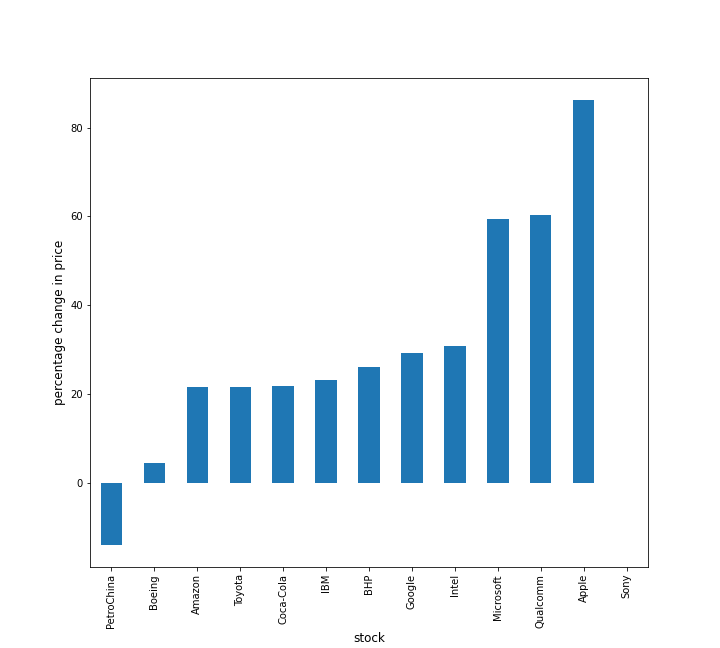
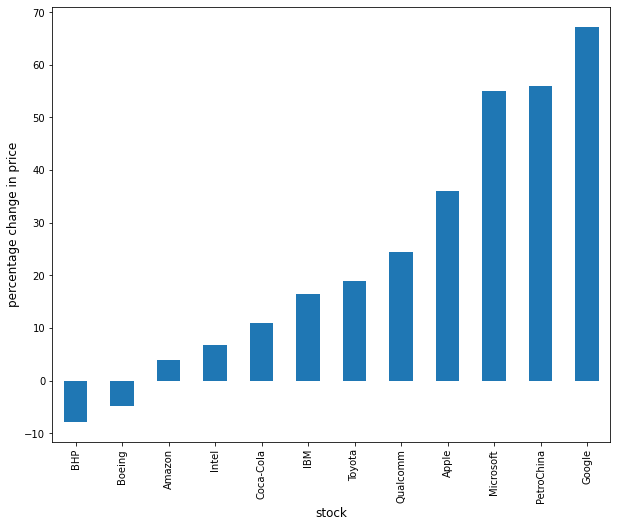
Remove Sony

diff --git a/lectures/pandas.md b/lectures/pandas.md
@@ -645,7 +645,7 @@ import datetime as dt
 import yfinance as yf
 ```
 
-Write a program to calculate the percentage price change over 2019 for the following shares:
+Write a program to calculate the percentage price change over 2021 for the following shares:
 
 ```{code-cell} python3
 ticker_list = {'INTC': 'Intel',
@@ -659,7 +659,6 @@ ticker_list = {'INTC': 'Intel',
                'QCOM': 'Qualcomm',
                'KO': 'Coca-Cola',
                'GOOG': 'Google',
-               'SNE': 'Sony',
                'PTR': 'PetroChina'}
 ```
 
@@ -667,8 +666,8 @@ Here's the first part of the program
 
 ```{code-cell} python3
 def read_data(ticker_list,
-          start=dt.datetime(2019, 1, 2),
-          end=dt.datetime(2019, 12, 31)):
+          start=dt.datetime(2021, 1, 1),
+          end=dt.datetime(2021, 12, 31)):
     """
     This function reads in closing price data from Yahoo
     for each tick in the ticker_list.
@@ -694,30 +693,6 @@ Complete the program to plot the result as a bar graph like this one:
 
 ```{exercise-end}
 ```
-
-```{exercise-start}
-:label: pd_ex2
-```
-
-Using the method `read_data` introduced in {ref}`pd_ex1`, write a program to obtain year-on-year percentage change for the following indices:
-
-```{code-cell} python3
-indices_list = {'^GSPC': 'S&P 500',
-               '^IXIC': 'NASDAQ',
-               '^DJI': 'Dow Jones',
-               '^N225': 'Nikkei'}
-```
-
-Complete the program to show summary statistics and plot the result as a time series graph like this one:
-
-```{figure} /_static/lecture_specific/pandas/pandas_indices_pctchange.png
-:scale: 80
-```
-
-```{exercise-end}
-```
-
-## Solutions
 
 ```{solution-start} pd_ex1
 :class: dropdown
@@ -760,6 +735,28 @@ plt.show()
 ```
 
 
+```{exercise-start}
+:label: pd_ex2
+```
+
+Using the method `read_data` introduced in {ref}`pd_ex1`, write a program to obtain year-on-year percentage change for the following indices:
+
+```{code-cell} python3
+indices_list = {'^GSPC': 'S&P 500',
+               '^IXIC': 'NASDAQ',
+               '^DJI': 'Dow Jones',
+               '^N225': 'Nikkei'}
+```
+
+Complete the program to show summary statistics and plot the result as a time series graph like this one:
+
+```{figure} /_static/lecture_specific/pandas/pandas_indices_pctchange.png
+:scale: 80
+```
+
+```{exercise-end}
+```
+
 ```{solution-start} pd_ex2
 :class: dropdown
 ```
@@ -770,7 +767,7 @@ Following the work you did in {ref}`pd_ex1`, you can query the data using `read_
 indices_data = read_data(
         indices_list,
         start=dt.datetime(1971, 1, 1),  #Common Start Date
-        end=dt.datetime(2020, 12, 31)
+        end=dt.datetime(2021, 12, 31)
 )
 ```
 
